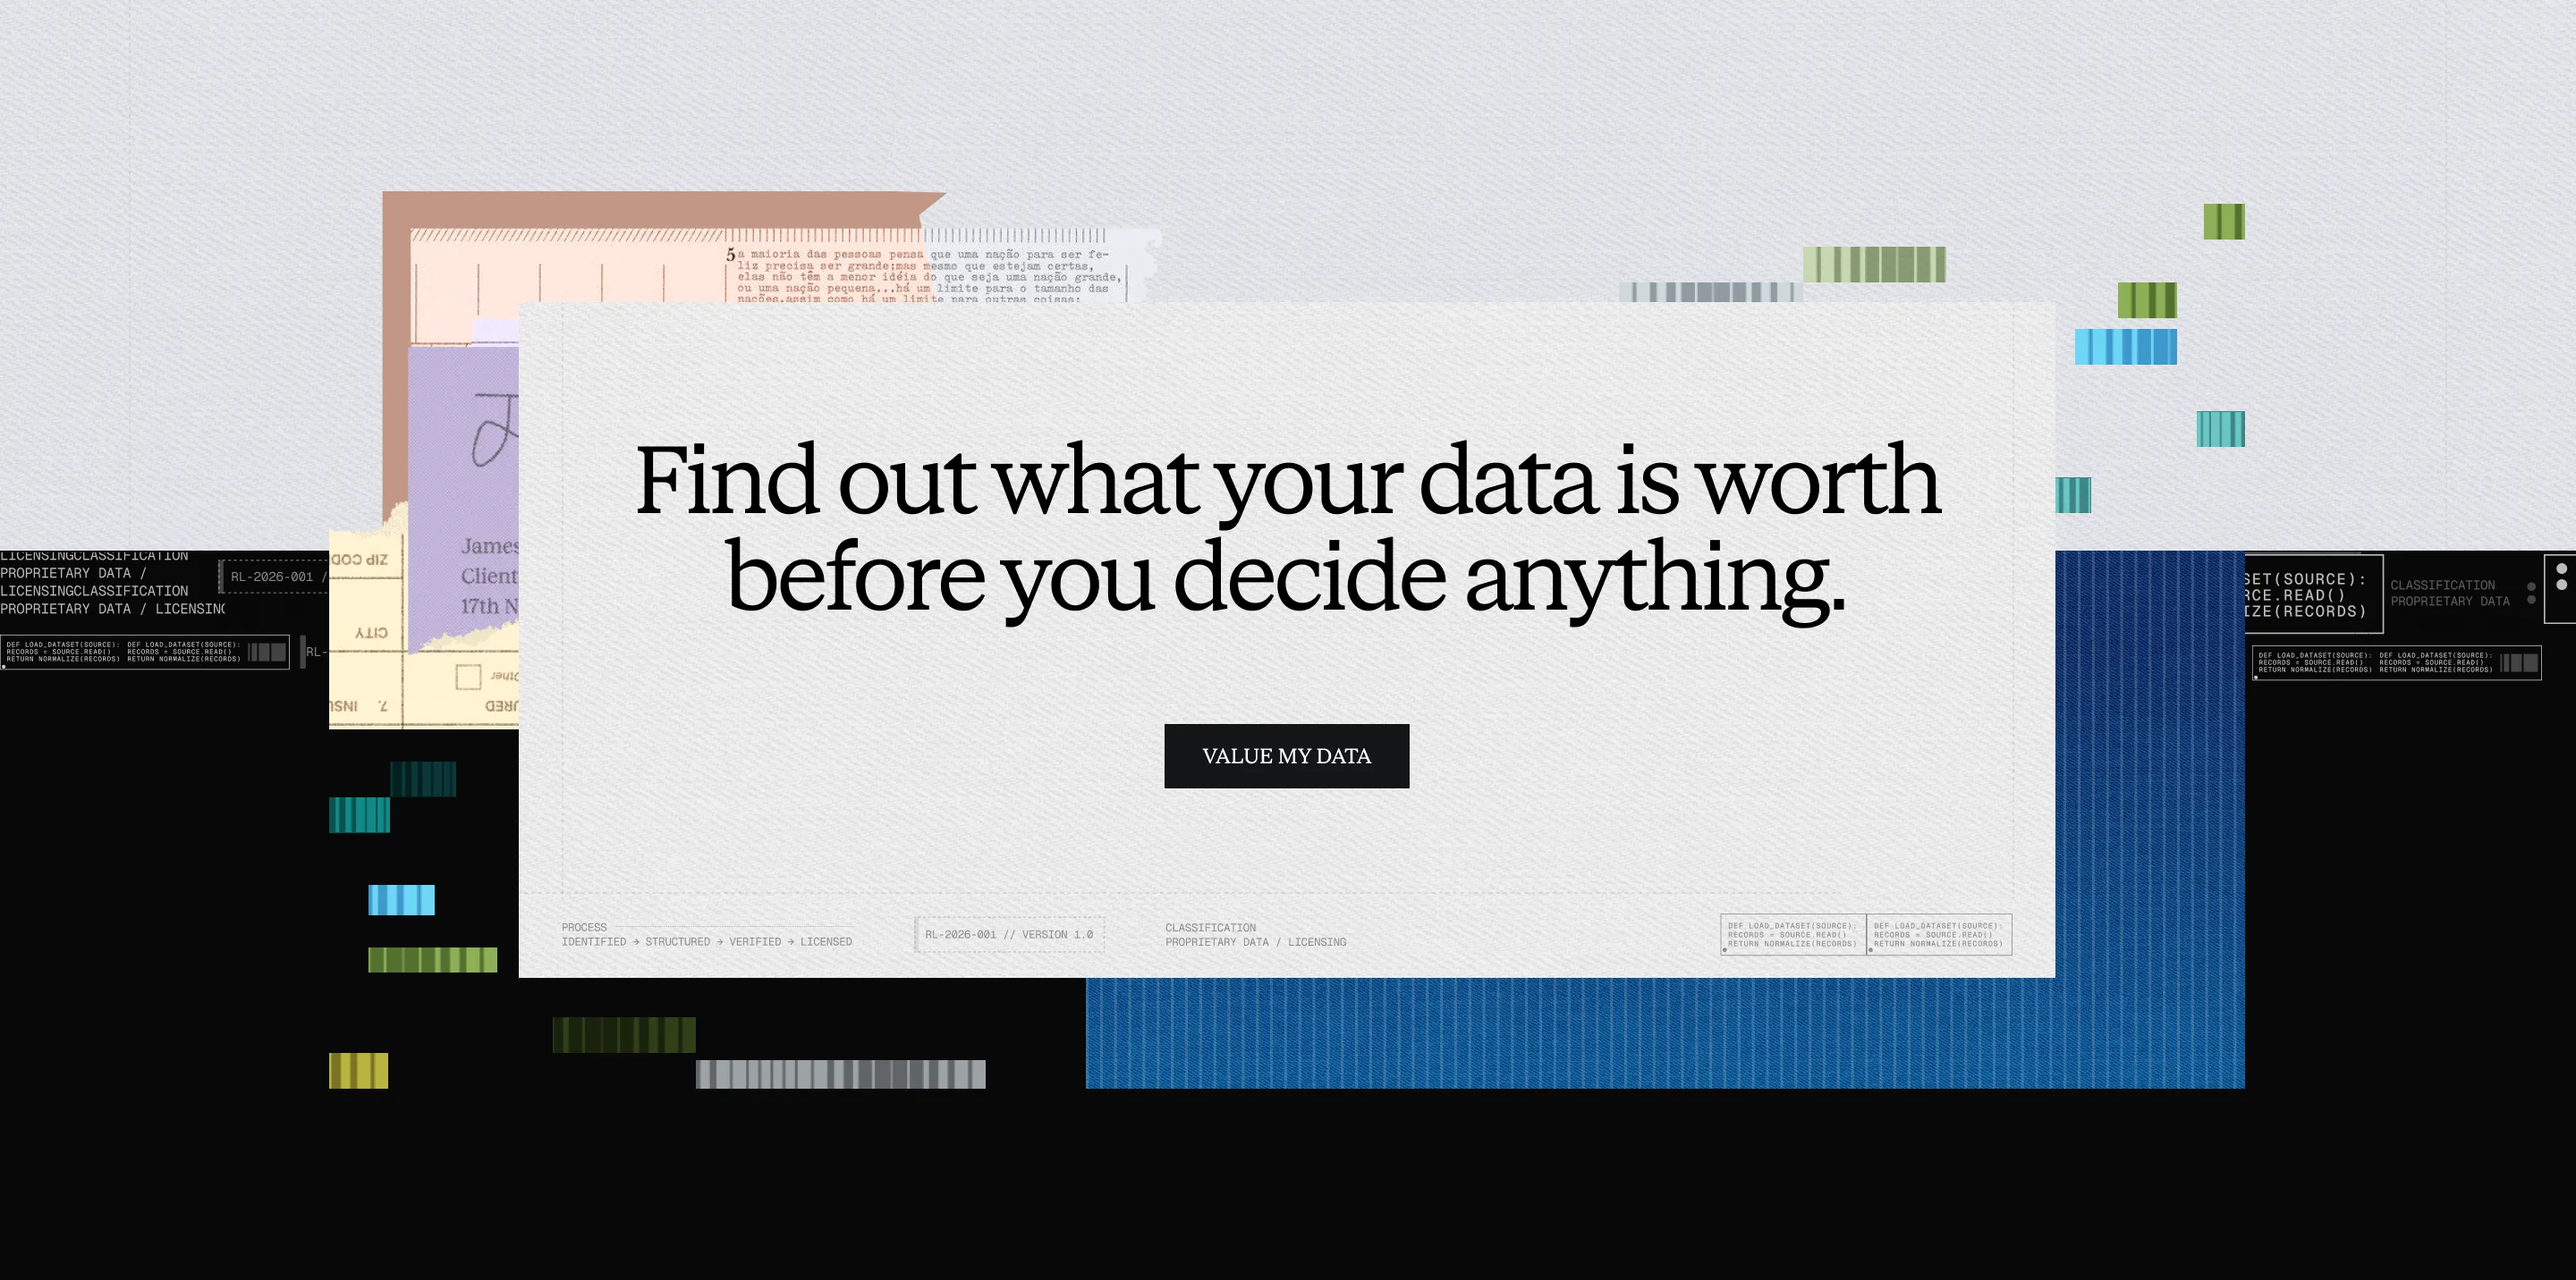
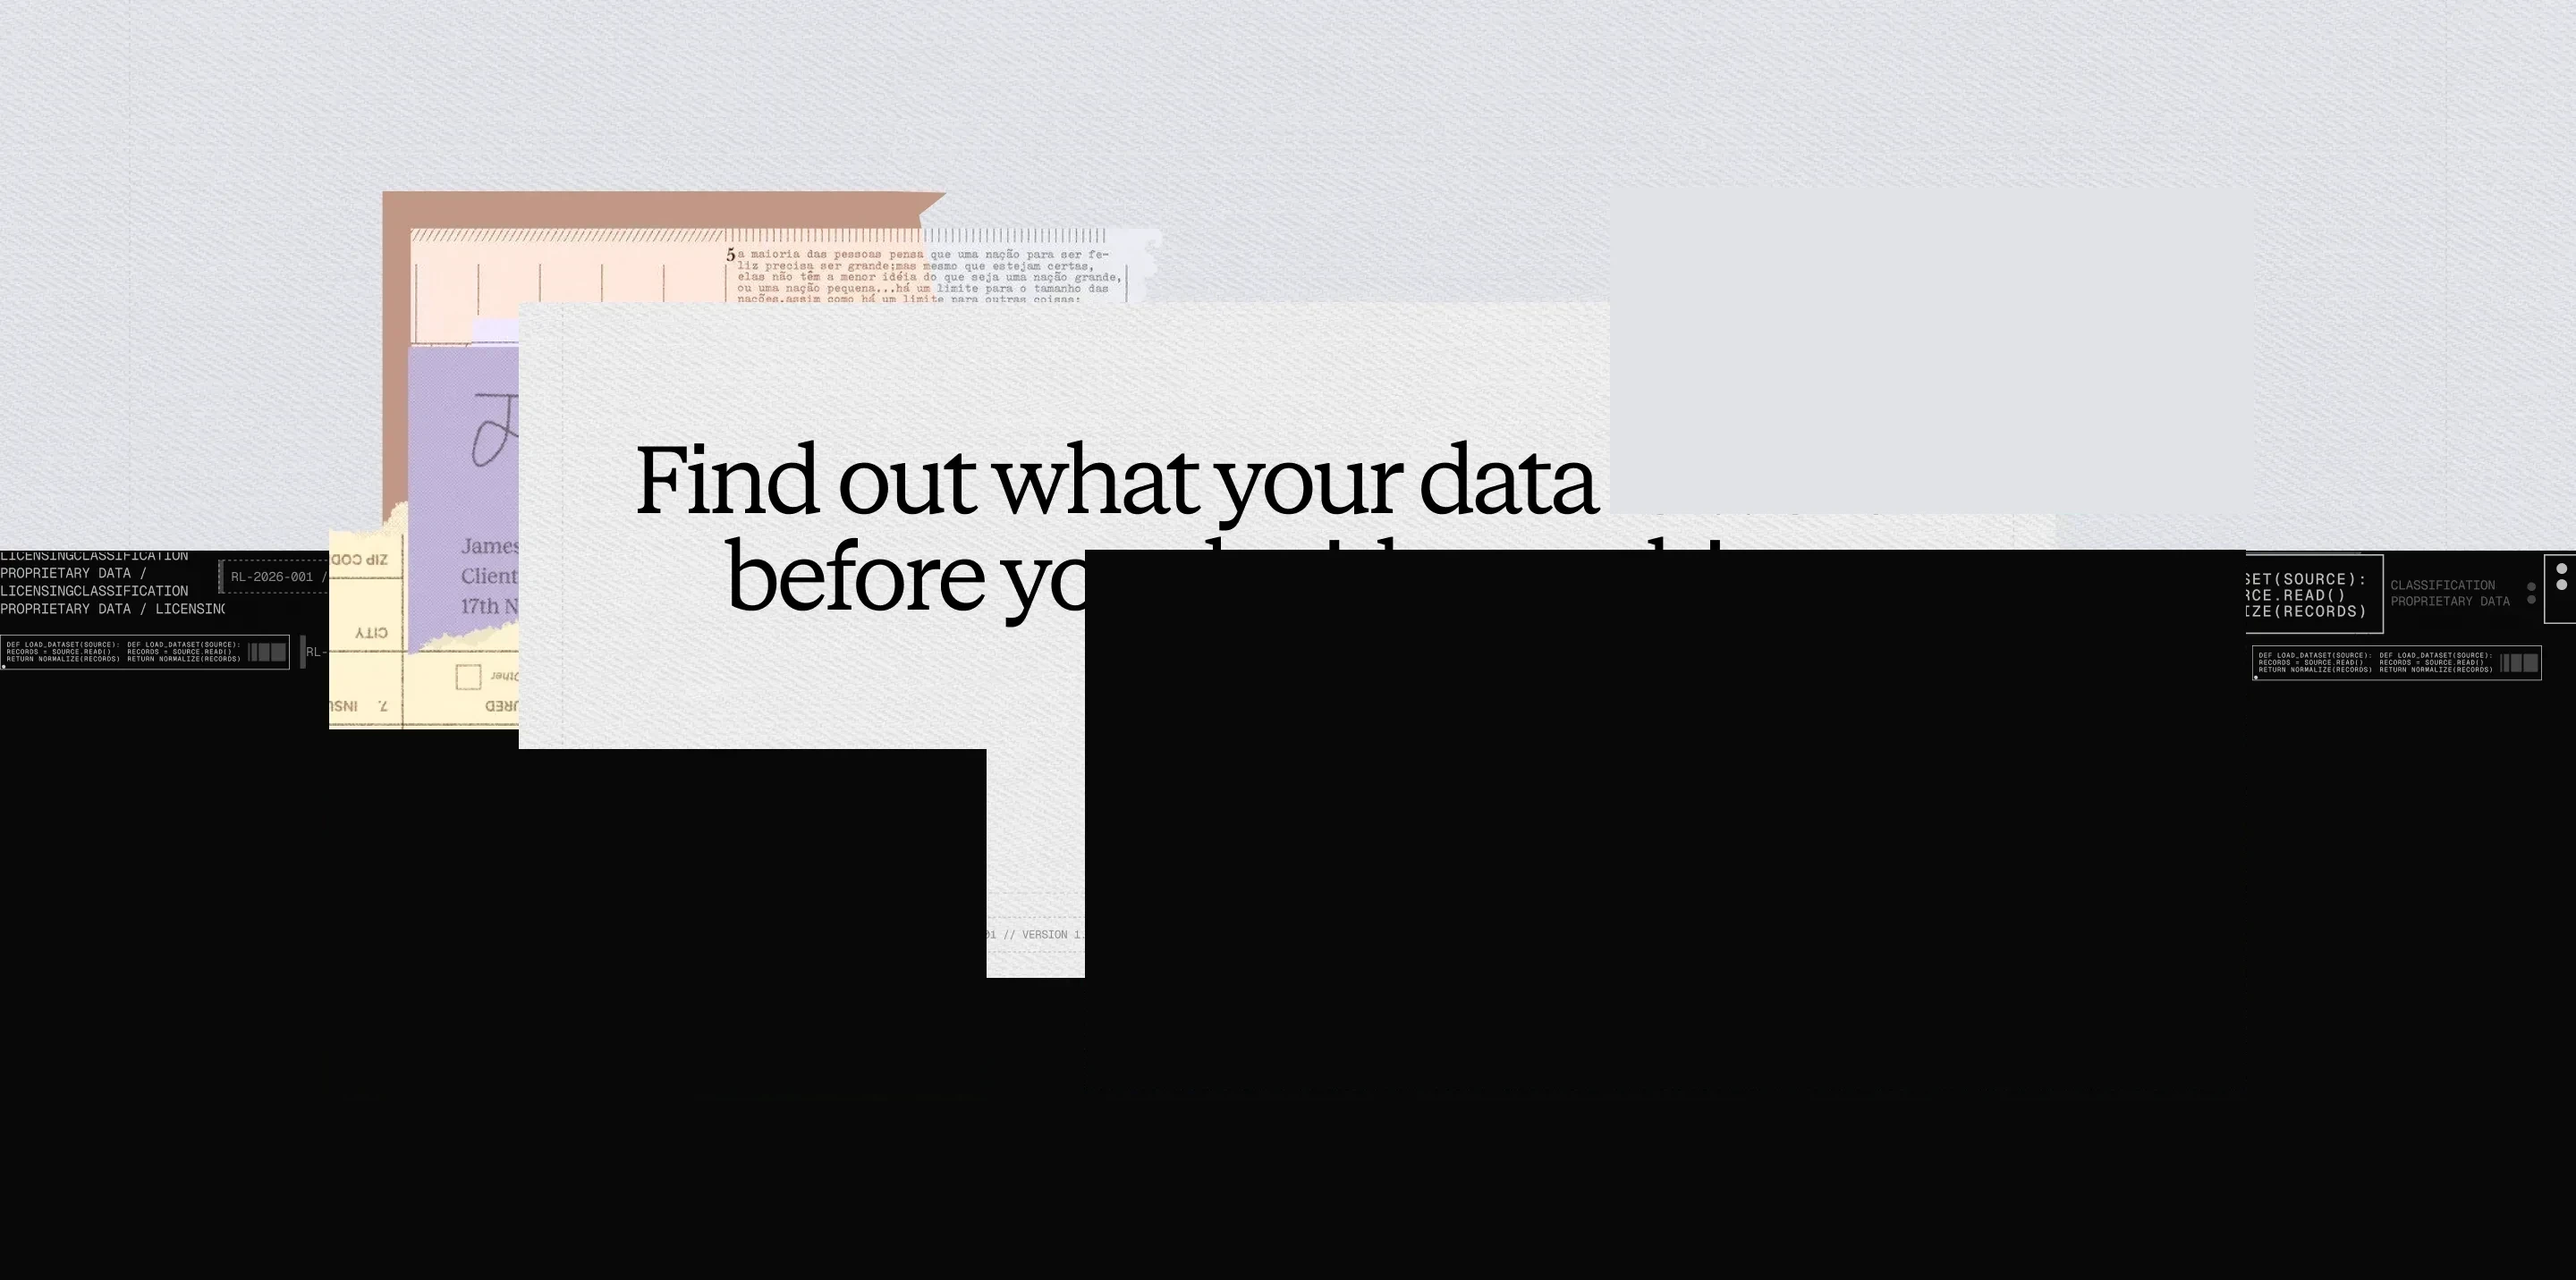
added parallex effect on cta section

diff --git a/modules/landing/components/cta-section.tsx b/modules/landing/components/cta-section.tsx
@@ -1,8 +1,21 @@
+"use client";
+
 import Image from "next/image";
+import { useElementParallax } from "../hooks/use-element-parallax";
+
+const PANEL_PARALLAX_SHIFT_X = 16;
+const PANEL_PARALLAX_SHIFT_Y = 8;
+const LEFT_PATTERN_PARALLAX_SHIFT_X = 14;
+const LEFT_PATTERN_PARALLAX_SHIFT_Y = 7;
+const ABOVE_PATTERN_PARALLAX_SHIFT_X = 12;
+const ABOVE_PATTERN_PARALLAX_SHIFT_Y = 6;
 
 export function CtaSection() {
+  const { containerRef, offset } = useElementParallax<HTMLElement>();
+
   return (
     <section
+      ref={containerRef}
       id="value-my-data"
       className="relative w-full overflow-hidden bg-[#080808] py-20 sm:py-24 lg:aspect-[1440/716] lg:py-0"
     >
@@ -12,6 +25,48 @@ export function CtaSection() {
         fill
         className="pointer-events-none hidden object-cover lg:block"
       />
+
+      <div
+        className="pointer-events-none absolute top-[42.95%] left-[42.12%] hidden h-[42.18%] w-[45.07%] lg:block"
+        style={{
+          transform: `translate3d(${offset.x * PANEL_PARALLAX_SHIFT_X}px, ${offset.y * PANEL_PARALLAX_SHIFT_Y}px, 0)`,
+        }}
+      >
+        <Image
+          src="/images/cta/blue-panel.webp"
+          alt=""
+          fill
+          className="object-cover"
+        />
+      </div>
+
+      <div
+        className="pointer-events-none absolute top-[58.52%] left-[12.71%] hidden h-[26.89%] w-[25.59%] lg:block"
+        style={{
+          transform: `translate3d(${offset.x * LEFT_PATTERN_PARALLAX_SHIFT_X}px, ${offset.y * LEFT_PATTERN_PARALLAX_SHIFT_Y}px, 0)`,
+        }}
+      >
+        <Image
+          src="/images/cta/left-pattern.webp"
+          alt=""
+          fill
+          className="object-cover"
+        />
+      </div>
+
+      <div
+        className="pointer-events-none absolute top-[14.66%] left-[62.5%] hidden h-[25.49%] w-[25%] lg:block"
+        style={{
+          transform: `translate3d(${offset.x * ABOVE_PATTERN_PARALLAX_SHIFT_X}px, ${offset.y * ABOVE_PATTERN_PARALLAX_SHIFT_Y}px, 0)`,
+        }}
+      >
+        <Image
+          src="/images/cta/above-pattern.webp"
+          alt=""
+          fill
+          className="object-cover"
+        />
+      </div>
 
       <div
         className="relative mx-auto flex w-full max-w-[859px] flex-col items-center justify-center gap-8 overflow-hidden bg-[#fcfcfc] px-6 py-10 text-center sm:gap-14 sm:px-10 sm:py-14 lg:absolute lg:top-[23.6%] lg:left-[20.14%] lg:h-[52.79%] lg:w-[59.65%] lg:max-w-none lg:px-10 lg:py-0"

diff --git a/modules/landing/hooks/use-element-parallax.ts b/modules/landing/hooks/use-element-parallax.ts
@@ -1,0 +1,64 @@
+"use client";
+
+import { useEffect, useRef, useState } from "react";
+
+/**
+ * Tracks the pointer position within a container element as an eased -1..1
+ * offset on each axis, for parallaxing a single child element. Eases back to
+ * (0, 0) on pointer leave. Only active on hover-capable, fine-pointer
+ * devices (desktop mice) — touch devices never attach the listeners.
+ */
+export function useElementParallax<T extends HTMLElement>({ ease = 0.08 } = {}) {
+  const containerRef = useRef<T>(null);
+  const [offset, setOffset] = useState({ x: 0, y: 0 });
+
+  useEffect(() => {
+    const node = containerRef.current;
+    if (!node) return;
+    if (!window.matchMedia("(hover: hover) and (pointer: fine)").matches) return;
+
+    let targetX = 0;
+    let targetY = 0;
+    let currentX = 0;
+    let currentY = 0;
+    let frameId = 0;
+
+    const step = () => {
+      currentX += (targetX - currentX) * ease;
+      currentY += (targetY - currentY) * ease;
+      setOffset({ x: currentX, y: currentY });
+
+      const settled =
+        Math.abs(targetX - currentX) < 0.0005 && Math.abs(targetY - currentY) < 0.0005;
+      frameId = settled ? 0 : requestAnimationFrame(step);
+    };
+
+    const requestStep = () => {
+      if (!frameId) frameId = requestAnimationFrame(step);
+    };
+
+    const onPointerMove = (event: PointerEvent) => {
+      const rect = node.getBoundingClientRect();
+      targetX = ((event.clientX - rect.left) / rect.width) * 2 - 1;
+      targetY = ((event.clientY - rect.top) / rect.height) * 2 - 1;
+      requestStep();
+    };
+
+    const onPointerLeave = () => {
+      targetX = 0;
+      targetY = 0;
+      requestStep();
+    };
+
+    node.addEventListener("pointermove", onPointerMove);
+    node.addEventListener("pointerleave", onPointerLeave);
+
+    return () => {
+      node.removeEventListener("pointermove", onPointerMove);
+      node.removeEventListener("pointerleave", onPointerLeave);
+      if (frameId) cancelAnimationFrame(frameId);
+    };
+  }, [ease]);
+
+  return { containerRef, offset };
+}
